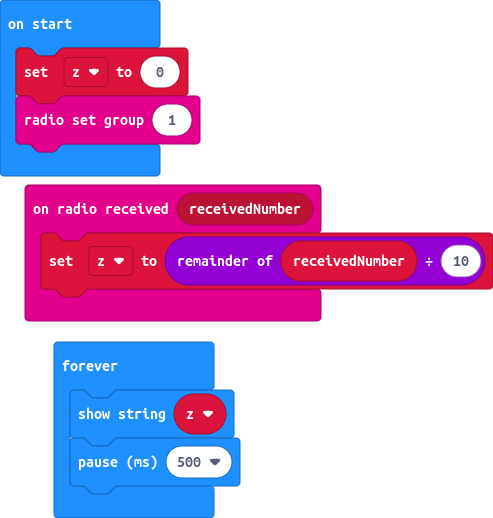
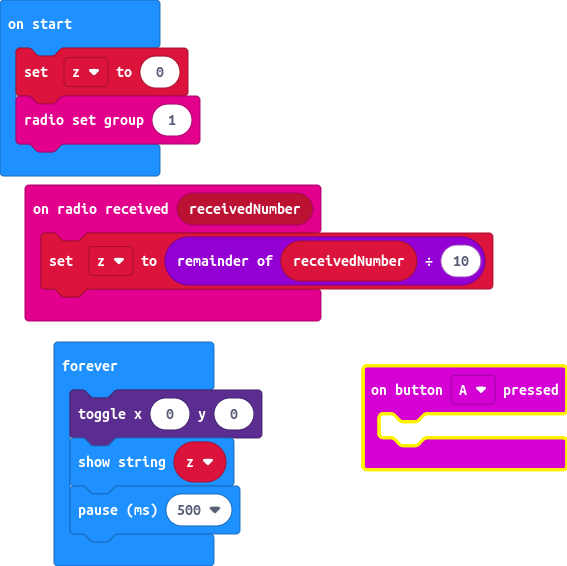
testing

diff --git a/main.ts b/main.ts
@@ -1,10 +1,14 @@
 radio.onReceivedNumber(function (receivedNumber) {
     z = receivedNumber % 10
 })
+input.onButtonPressed(Button.A, function () {
+	
+})
 let z = 0
 z = 0
 radio.setGroup(1)
 basic.forever(function () {
+    led.toggle(0, 0)
     basic.showString("" + (z))
     basic.pause(500)
 })
